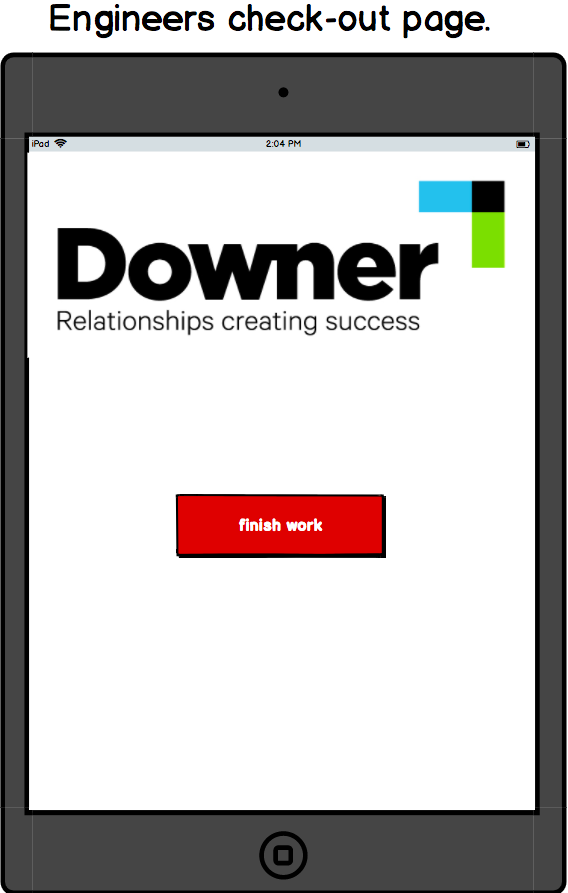
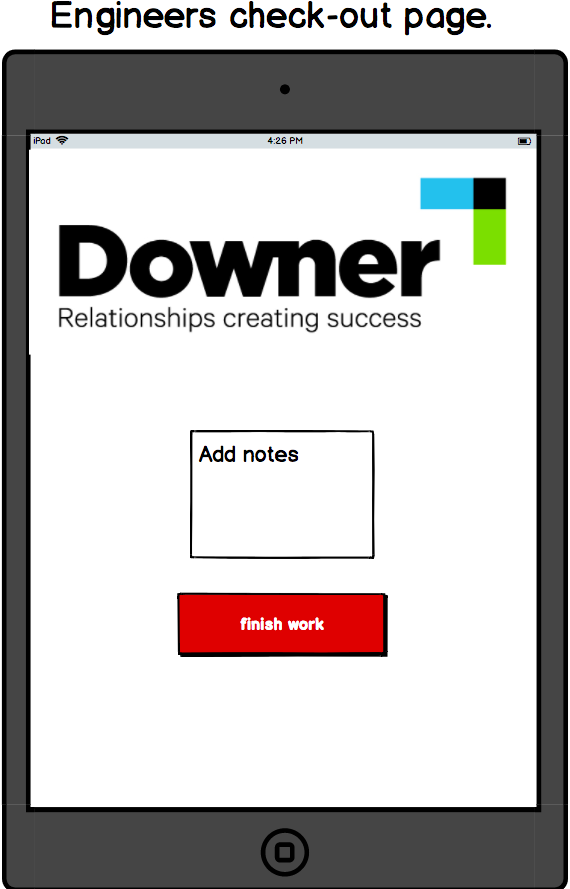
added extra wireframes for admin and edited user ones

diff --git a/src/components/Sign-in.js b/src/components/Sign-in.js
@@ -11,7 +11,7 @@ import { Form, Label, Input, FormGroup, Button } from 'reactstrap';
         </FormGroup>
         <FormGroup>
           <Label for="password">Password</Label>
-          <Input type="password" name="password" id="examplePassword" placeholder="please enter your password" />
+          <Input type="password" name="password" id="examplePassword" placeholder="Please enter your password" />
         </FormGroup>
         <Button color="success">Sign In</Button>
       </Form>
